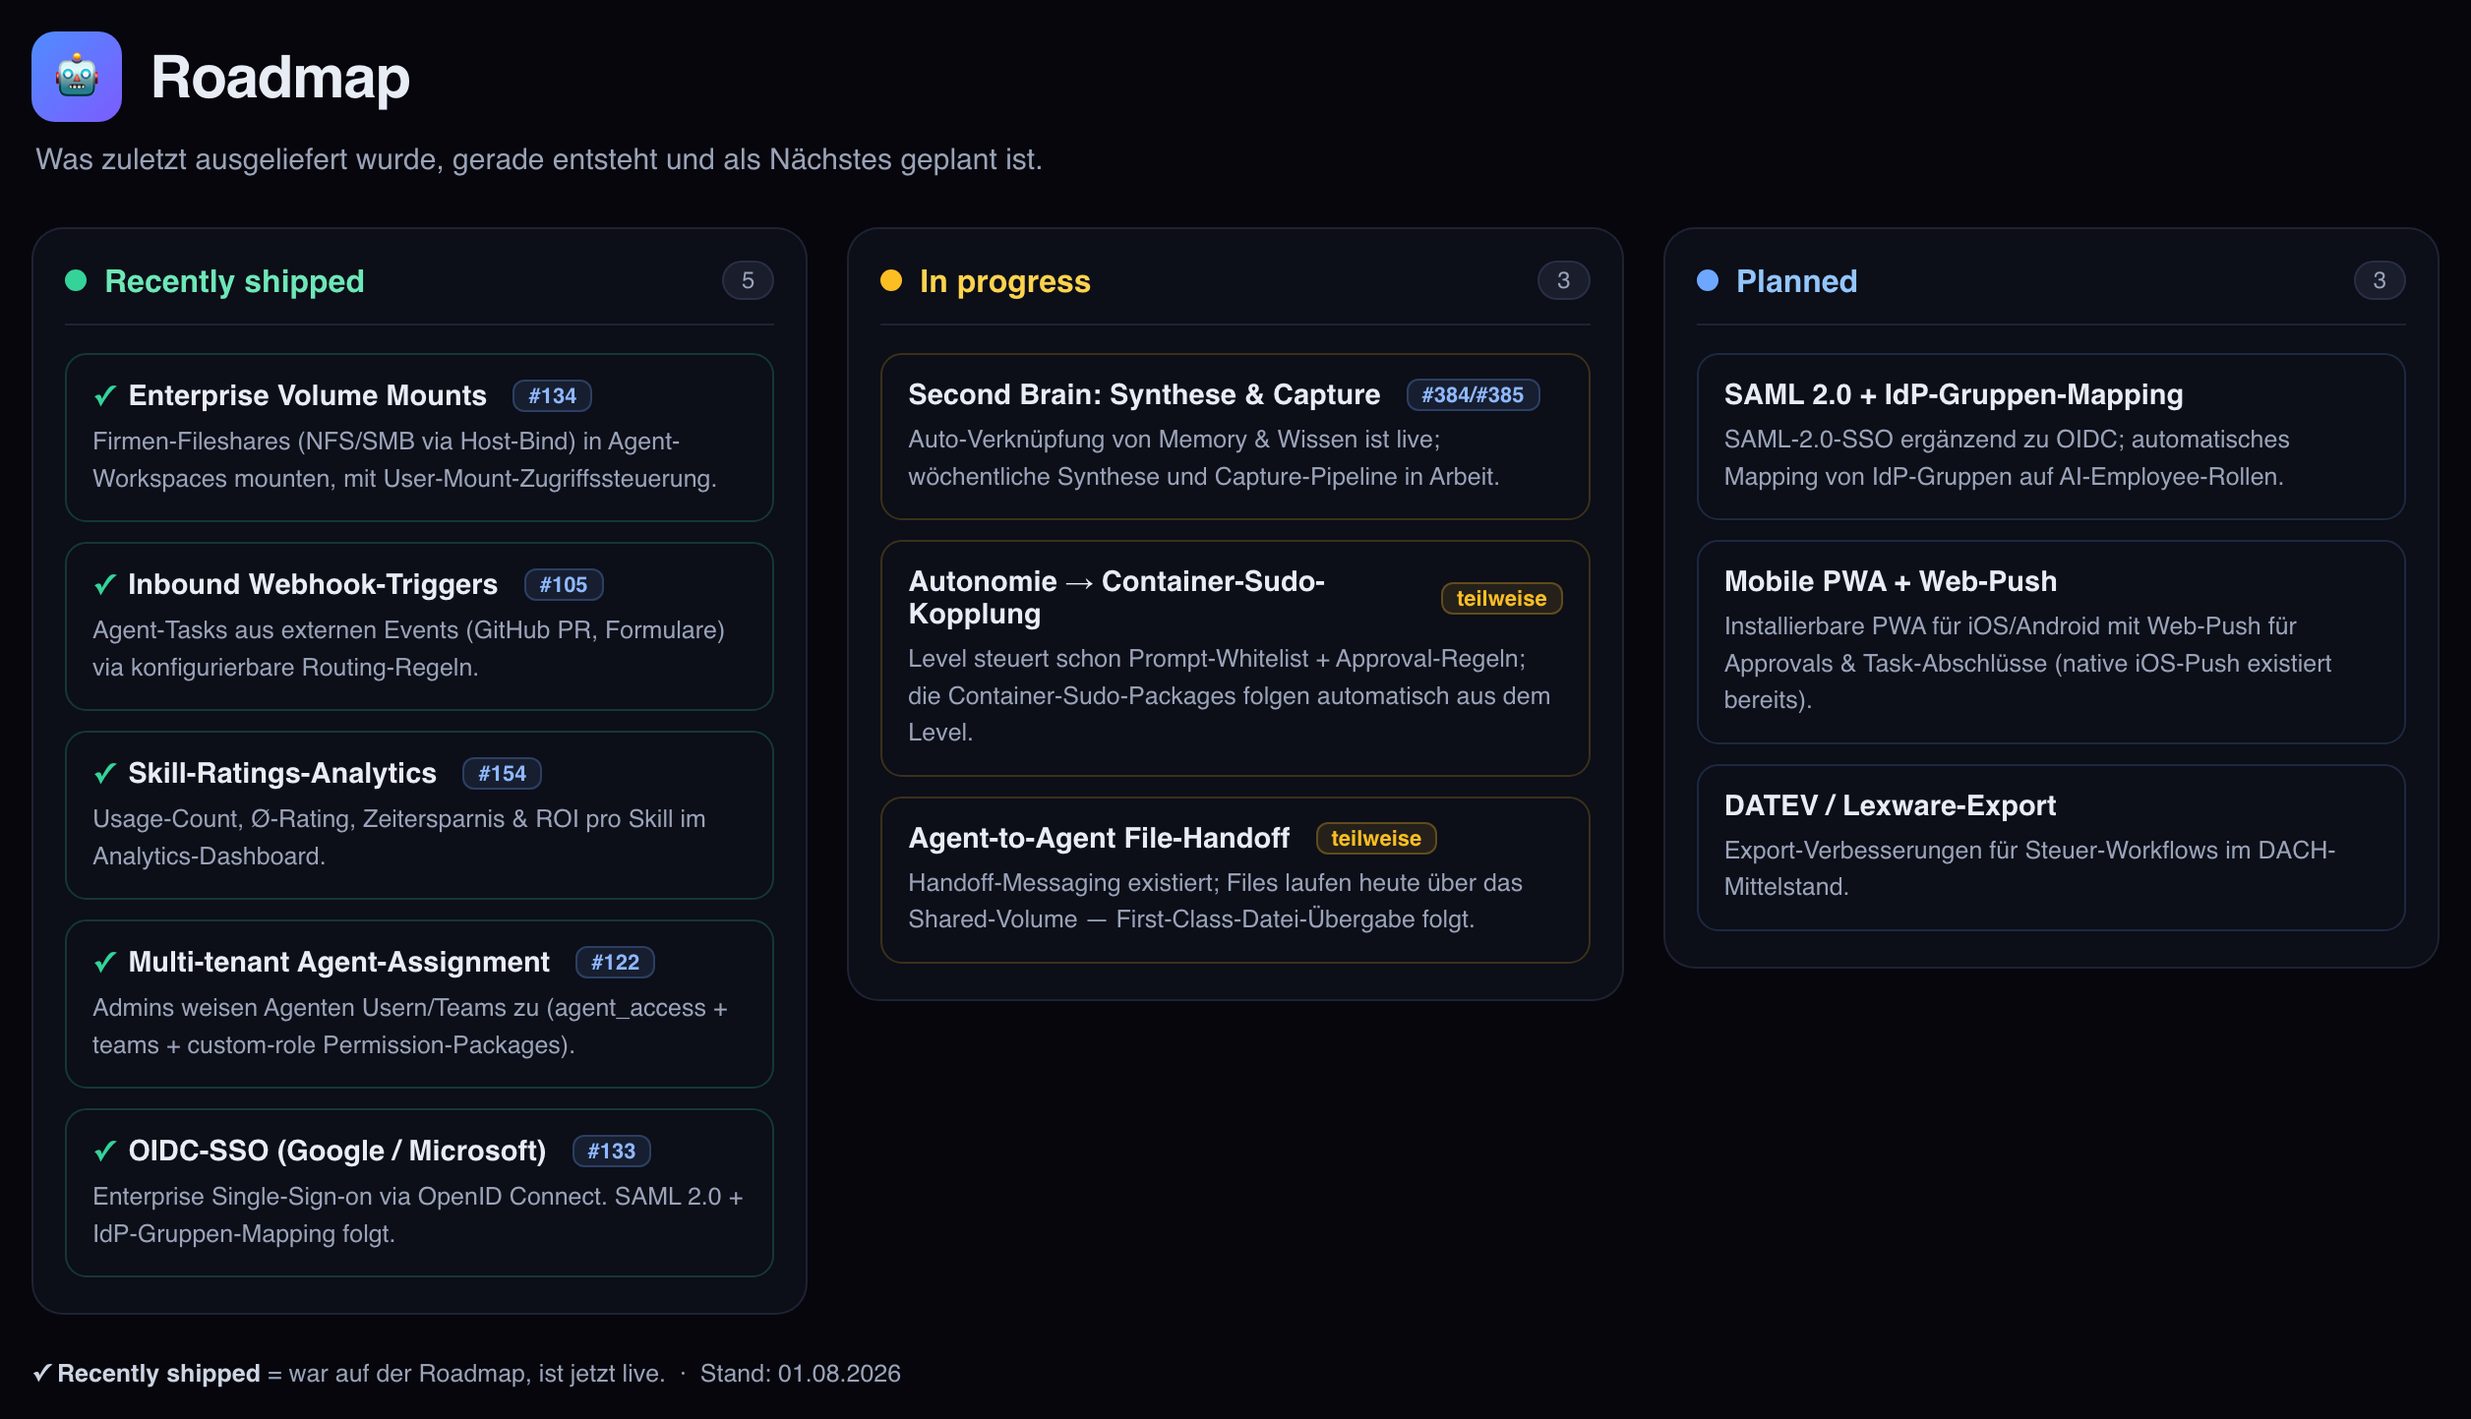
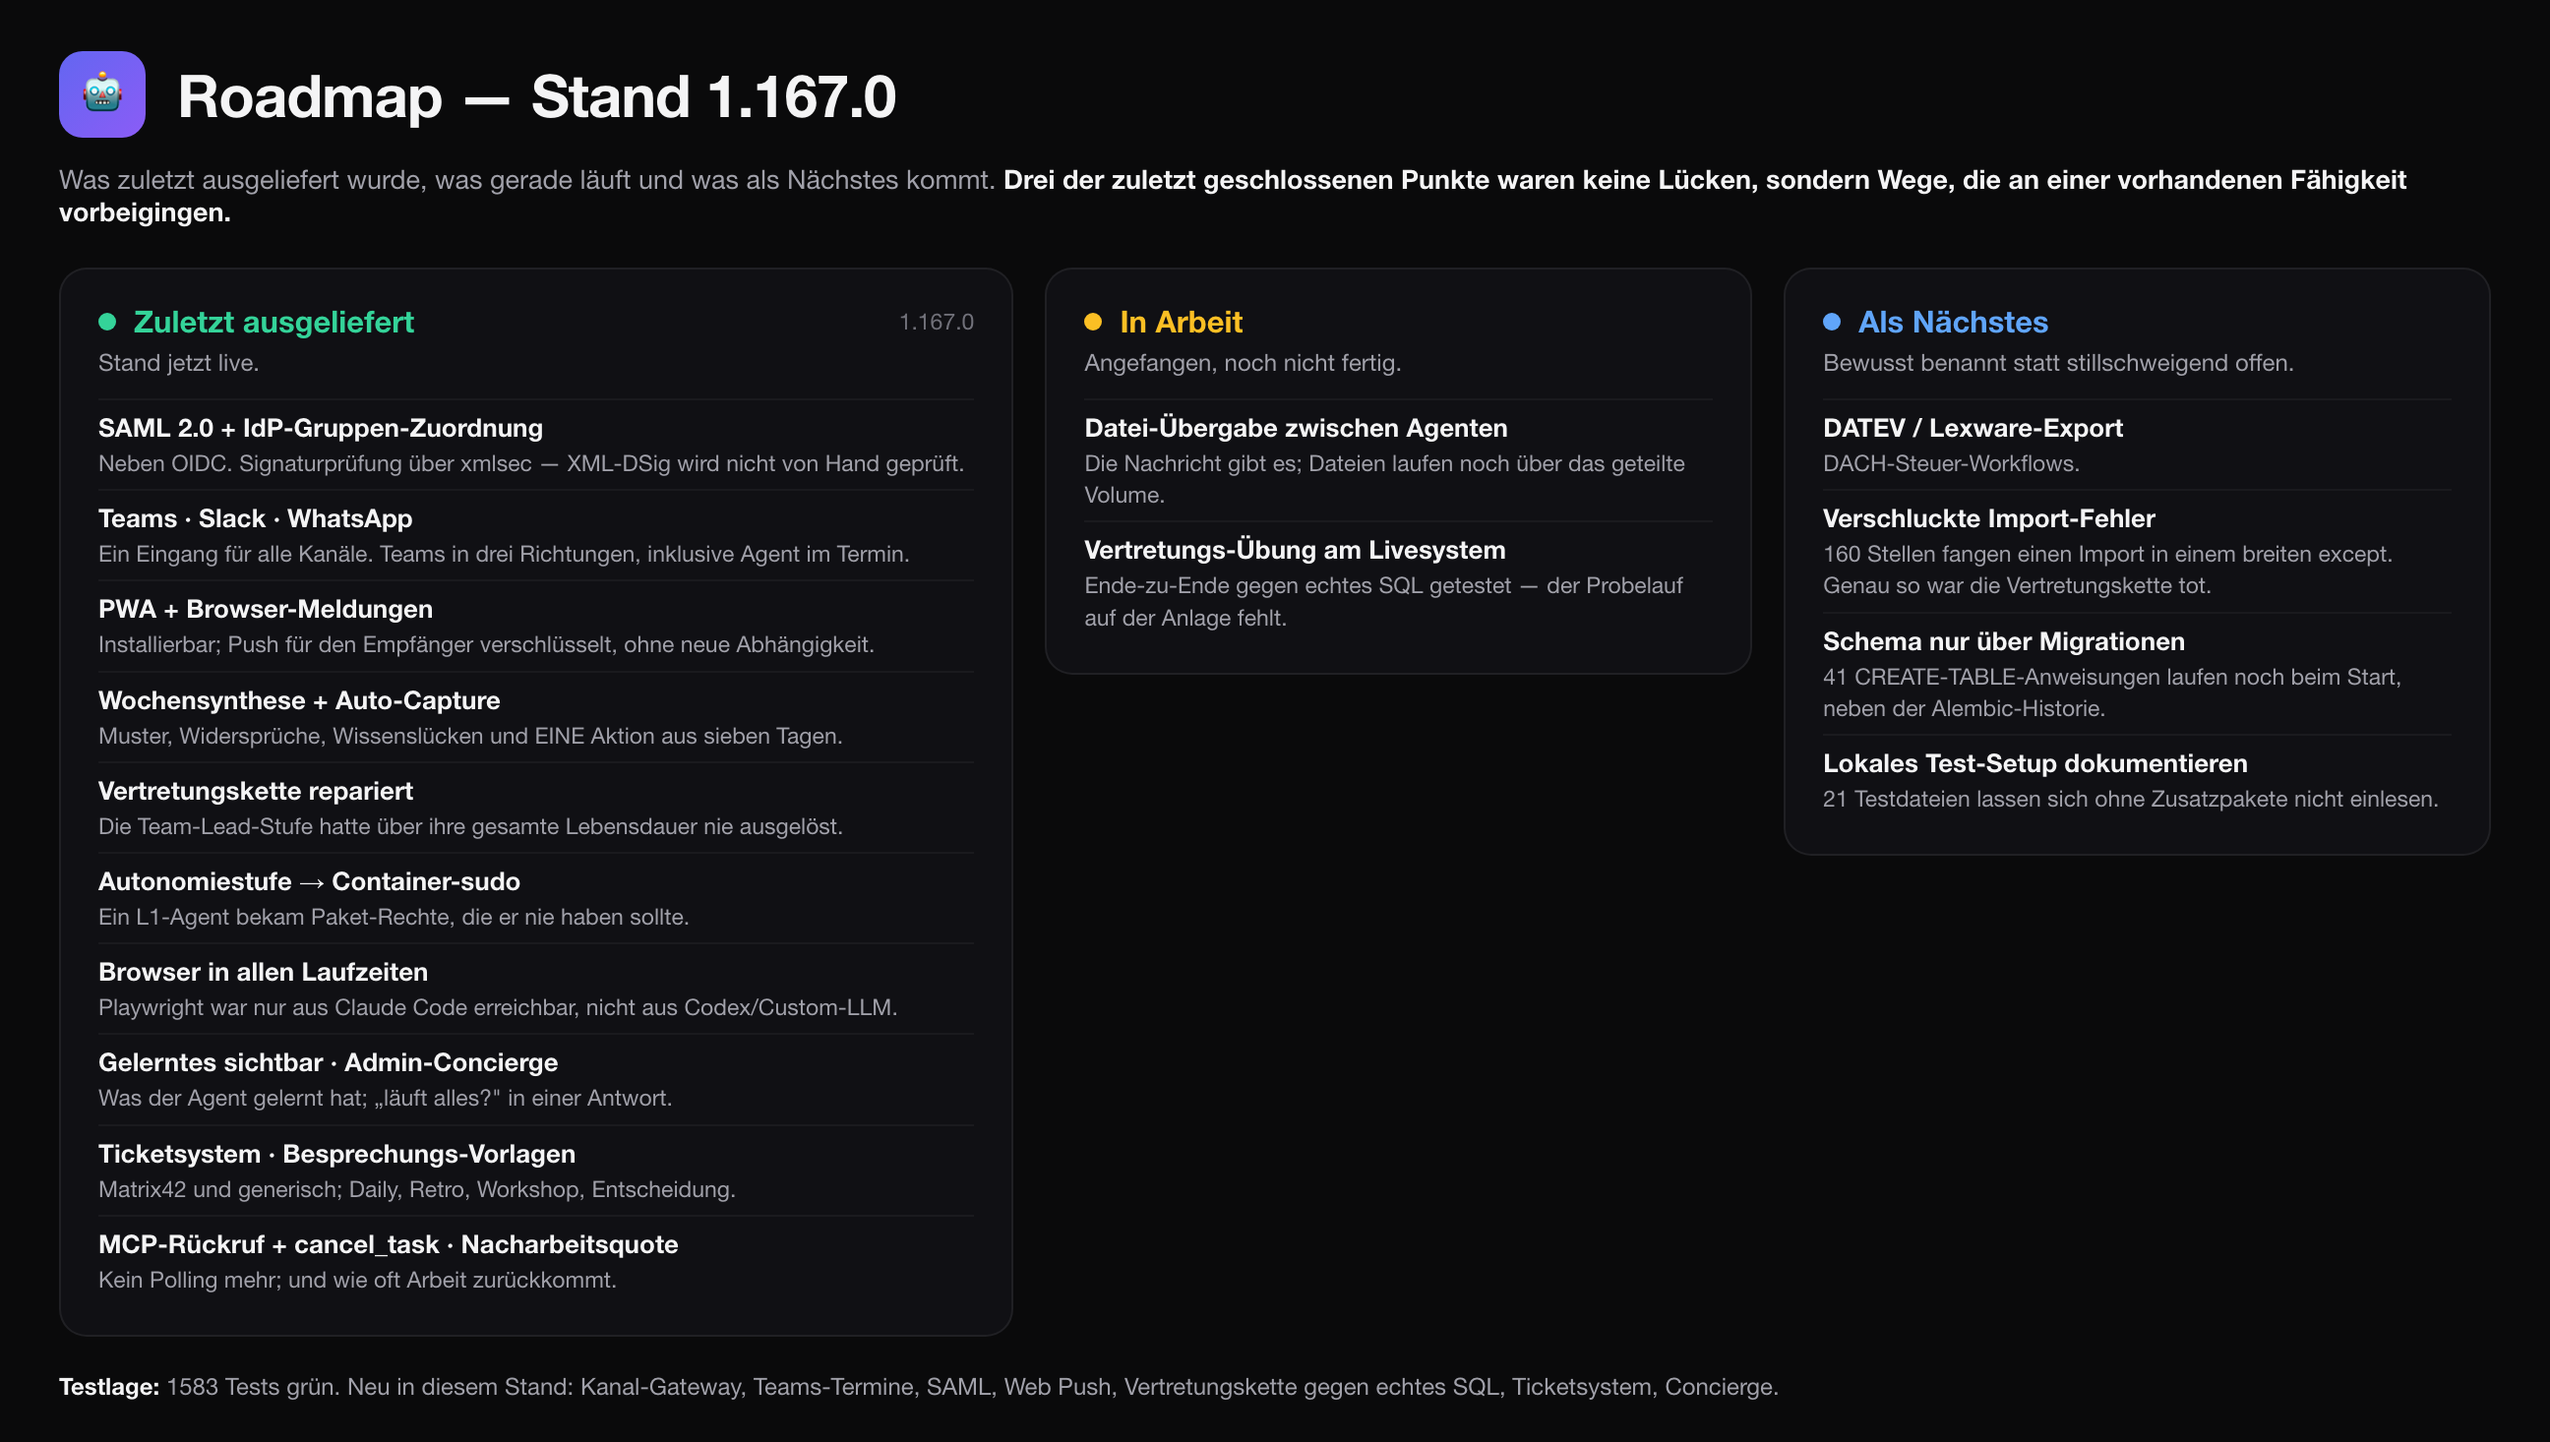
chore(release): v1.167.0 — Vision-Abschluss
Version, CHANGELOG, README und beide Roadmap-Bilder auf den Stand gebracht.

Der Versions-Badge im README stand auf 1.127.0 und war damit 39 Versionen alt.

Der Roadmap-Abschnitt ist neu geschrieben: was ausgeliefert ist, was laeuft, was
kommt. Die offenen Punkte sind bewusst benannt statt stillschweigend wegzufallen —
darunter die 160 Stellen mit verschlucktem Import-Fehler (genau so war die
Vertretungskette ueber ihre gesamte Lebensdauer tot) und die 41 Schema-Anweisungen,
die noch am Migrationsweg vorbeilaufen.

Beide Bilder neu erzeugt (docs/assets/roadmap.png, vision-roadmap.png) — es gibt kein
Generator-Skript, sie sind im Stil der bisherigen von Hand gebaut und headless
gerendert. Die Vision-Roadmap zeigt jetzt je Punkt, ob er live oder offen ist, statt
nur Issue-Nummern.

VERSION und das Dockerfile-Label des Agenten sind gleichgezogen. AGENT_VERSION liest
die VERSION-Datei beim Start — nach dem Deploy also Orchestrator neu starten, sonst
haengt das Update-Banner. Das Agenten-Image braucht ohnehin einen Rebuild: libxmlsec1
fuer SAML und playwright fuer die Browser-Paritaet sind neu.

diff --git a/README.md b/README.md
@@ -5,7 +5,7 @@
 **The self-hosted multi-agent AI platform for teams who need compliance, governance, and true isolation.**
 
 [![License: Source Available](https://img.shields.io/badge/license-Source%20Available-orange.svg)](LICENSE.md)
-[![Version](https://img.shields.io/badge/version-1.127.0-green.svg)](VERSION)
+[![Version](https://img.shields.io/badge/version-1.167.0-green.svg)](VERSION)
 [![Docker](https://img.shields.io/badge/docker-ready-2496ED.svg)](docker-compose.community.yml)
 [![DSGVO](https://img.shields.io/badge/DSGVO-ready-yellow.svg)](#governance--compliance)
 [![Made in DACH](https://img.shields.io/badge/made%20in-DACH-red.svg)](#)
@@ -300,25 +300,32 @@ What we shipped recently, what's in progress, and what's planned next:
 <summary>Roadmap as text</summary>
 
 **Recently shipped** (was on the roadmap, now live)
-- **Visual workflow builder + engine** ([#392](https://github.com/greeves89/AI-Employee/issues/392) / [#394](https://github.com/greeves89/AI-Employee/issues/394)) — declarative multi-step agent workflows (task / condition / wait) that run on a safe state machine, edited in an n8n-style drag-and-drop canvas, with automatic cron triggers.
-- **DLP egress filter** ([#388](https://github.com/greeves89/AI-Employee/issues/388)) — outbound agent text scanned for PII/secrets before send; allow/log/mask/block per data class, audit without cleartext, admin UI.
-- **Decision-Trace / time-travel** ([#387](https://github.com/greeves89/AI-Employee/issues/387)) — replayable task timeline (thought → tool-call → result) with per-step duration, governance & cost strip, and JSON/PDF export.
-- **Second Brain — semantic auto-linking** ([#157](https://github.com/greeves89/AI-Employee/issues/157)) — agent memories and knowledge entries are now automatically cross-linked by embedding similarity, with a memory↔knowledge bridge and graph edge-type differentiation.
-- **Enterprise Volume Mounts** ([#134](https://github.com/greeves89/AI-Employee/issues/134)) — mount company file shares (NFS/SMB via host bind) into agent workspaces, with per-user mount access control.
-- **Inbound webhook triggers** ([#105](https://github.com/greeves89/AI-Employee/issues/105)) — trigger agent tasks from external events (GitHub PR, forms) via configurable routing rules.
-- **Skill ratings analytics** ([#154](https://github.com/greeves89/AI-Employee/issues/154)) — usage count, average rating, time-saved and ROI per skill in the analytics dashboard.
-- **Multi-tenant agent assignment** ([#122](https://github.com/greeves89/AI-Employee/issues/122)) — assign agents to specific users/teams via `agent_access` + teams + custom-role permission packages.
-- **OIDC SSO (Google / Microsoft)** ([#133](https://github.com/greeves89/AI-Employee/issues/133)) — enterprise single sign-on via OpenID Connect.
+- **SAML 2.0 + IdP group mapping** — SAML SSO alongside OIDC, with automatic mapping of identity-provider groups to AI-Employee roles. Signature verification runs through `python3-saml`/`xmlsec` — never hand-rolled.
+- **Mobile PWA + Web Push** — installable PWA for iOS/Android/desktop with encrypted web push for approvals and task completions, on the same fan-out point as the existing native iOS push.
+- **Multi-channel gateway** — Microsoft Teams, Slack and WhatsApp next to Telegram. Teams works in three directions: a human messages the agent, an agent messages another agent, and an agent joins a meeting as scribe or participant. No Azure Bot registration needed — the existing per-user Graph integration already covers it.
+- **Second Brain: Weekly Synthesis & Capture** ([#384](https://github.com/greeves89/AI-Employee/issues/384) / [#385](https://github.com/greeves89/AI-Employee/issues/385)) — a weekly pass over the last seven days surfaces patterns, contradictions, knowledge gaps and ONE action; links and long messages are captured into the vault automatically.
+- **Autonomy level → container sudo** — the autonomy matrix now derives the container's sudo package set. An L1 "read-only" agent no longer receives a package-install grant it was never meant to have.
+- **Self-improvement dashboard** — what the platform learned: skills that emerged on their own, drafts awaiting review, revisions kept vs. reverted.
+- **Admin concierge widget** — "is everything fine?" in one answer, assembled from existing queries, deliberately without an LLM behind it.
+- **Ticket system connector** — Matrix42 plus a generic JSON/REST profile. Read, create and comment; closing a ticket stays with a human.
+- **Meeting templates** — Daily, Retrospective, Workshop, Decision.
+- **Browser automation across all runtimes** — Playwright was only reachable from Claude Code; Codex and Custom-LLM agents now have the same capability.
+- **MCP bridge: completion callbacks + `cancel_task`** — no more polling `get_task_status` in a loop, and a task that is no longer needed can be stopped.
+- **Rework rate** — how often a task had to be touched twice, derived from data already collected. Feeds the "is this agent getting better?" verdict.
+- **Visual workflow builder + engine** ([#392](https://github.com/greeves89/AI-Employee/issues/392) / [#394](https://github.com/greeves89/AI-Employee/issues/394)) — declarative multi-step agent workflows on a safe state machine, edited in an n8n-style canvas.
+- **DLP egress filter** ([#388](https://github.com/greeves89/AI-Employee/issues/388)) — outbound agent text scanned for PII/secrets before send.
+- **Decision-Trace / time-travel** ([#387](https://github.com/greeves89/AI-Employee/issues/387)) — replayable task timeline with per-step duration, governance & cost strip.
+- **Second Brain — semantic auto-linking** ([#157](https://github.com/greeves89/AI-Employee/issues/157)) — memories and knowledge cross-linked by embedding similarity.
+- **Enterprise Volume Mounts** ([#134](https://github.com/greeves89/AI-Employee/issues/134)), **inbound webhook triggers** ([#105](https://github.com/greeves89/AI-Employee/issues/105)), **skill ratings analytics** ([#154](https://github.com/greeves89/AI-Employee/issues/154)), **multi-tenant agent assignment** ([#122](https://github.com/greeves89/AI-Employee/issues/122)), **OIDC SSO** ([#133](https://github.com/greeves89/AI-Employee/issues/133)).
 
 **In progress**
-- **Second Brain: Weekly Synthesis & Capture** ([#384](https://github.com/greeves89/AI-Employee/issues/384) / [#385](https://github.com/greeves89/AI-Employee/issues/385)) — semantic auto-linking of memory & knowledge is live; weekly synthesis and the capture pipeline are next.
-- **Autonomy Level → container-sudo coupling** — an autonomy level already drives the prompt whitelist and approval rules; next it will also derive the container sudo package automatically.
-- **Agent-to-agent file handoff** — handoff messaging exists; files currently pass through the shared volume, first-class file handoff is in progress.
+- **Agent-to-agent file handoff** — handoff messaging exists; files currently pass through the shared volume, first-class file handoff is next.
+- **Deputy chain, verified live** — the team-lead fallback was repaired in 1.167.0 and is covered end-to-end against real SQL; a live drill on the production box is still outstanding.
 
 **Planned**
-- **SAML 2.0 + IdP group mapping** — SAML 2.0 SSO alongside the existing OIDC, with automatic mapping of identity-provider groups to AI-Employee roles.
-- **Mobile PWA + Web Push** — installable PWA for iOS/Android with web push for approvals and task completions (native iOS push already exists).
 - **DATEV / Lexware export** — export improvements for DACH tax workflows.
+- **Fewer swallowed import errors** — 160 places wrap an import in a broad `except Exception`, where an `ImportError` silently turns a function into a no-op. One of them had disabled the deputy chain for its entire lifetime.
+- **Schema changes through migrations only** — 41 `CREATE TABLE IF NOT EXISTS` statements still run at startup alongside the Alembic history.
 
 </details>
 

diff --git a/CHANGELOG.md b/CHANGELOG.md
@@ -5,6 +5,66 @@ Format: [Keep a Changelog](https://keepachangelog.com/en/1.0.0/) · Versioning: 
 
 ---
 
+## [1.167.0] — 2026-08-08
+
+Der Vision-Abschluss: die offenen Punkte aus allen vier Roadmap-Säulen. Drei davon
+waren keine Lücken, sondern **Wege, die an einer vorhandenen Fähigkeit vorbeigingen** —
+sie fielen erst beim Nachsehen auf.
+
+### Added
+- **SAML 2.0 SSO mit IdP-Gruppen-Zuordnung.** Die Signaturprüfung bewusst über
+  `python3-saml`/`xmlsec` statt selbst geschrieben — XML-DSig von Hand zu prüfen ist
+  der klassische Ort für Signature-Wrapping, und ein Kanonisierungsfehler dort ist ein
+  Authentifizierungs-Bypass. Höchste zutreffende Rolle gewinnt; ohne Treffer bleibt die
+  Rolle unverändert, und der letzte Administrator wird nie herabgestuft.
+- **Browser-Meldungen (Web Push) und installierbare App (PWA).** Ohne neue
+  Abhängigkeit umgesetzt (RFC 8292 + RFC 8291/8188 mit `cryptography`). Der Inhalt ist
+  für den Empfänger verschlüsselt — der Push-Dienst leitet nur weiter.
+- **Multi-Channel: Teams, Slack, WhatsApp.** Teams in drei Richtungen — Mensch schreibt
+  den Agenten an, Agent schreibt Agent, Agent als Mitschreiber oder Beisitzer in
+  Terminen. Ohne Bot-Registrierung: die Graph-Anbindung mit Nutzer-OAuth darf das
+  bereits.
+- **Wochensynthese (#384) und Auto-Capture (#385).** Muster, Widersprüche,
+  Wissenslücken und EINE Aktion aus den letzten sieben Tagen; Links und lange
+  Textblöcke landen im Second Brain statt im Chatverlauf.
+- **Self-Improvement sichtbar (#13).** Die Mechanik lief längst — es gab nur keine
+  Fläche, auf der steht, was der Agent gelernt hat.
+- **Admin-Concierge (#11).** „Läuft alles?" in einer Antwort, bewusst ohne
+  Sprachmodell: ein Concierge, der eine Zahl halluziniert, ist schlimmer als keiner.
+- **Ticketsystem-Anschluss** mit Matrix42 als erstem Profil. Ohne Schließen und
+  Löschen — den Abschluss macht ein Mensch.
+- **Ablauf-Vorlagen für Besprechungen (#14):** Daily, Retrospektive, Workshop,
+  Entscheidung.
+- **Nacharbeitsquote** in der Entwicklungs-Karte und im Analytics-Tab.
+- **MCP-Brücke:** Rückruf beim Fertigwerden statt Polling, plus `cancel_task`.
+
+### Fixed
+- **Die Team-Lead-Stufe der Vertretungskette hat nie ausgelöst.** `team_lead_for`
+  verband sich auf eine Tabelle `team_members`, die es in diesem Projekt nie gab. Der
+  ImportError lief jedes Mal ins umschließende `except`, die Funktion gab stumm `""`
+  zurück. Folge: ohne eingetragenen Vertreter übernahm **niemand**, und unbeantwortete
+  Rückfragen gingen immer an die Administration statt an den Team-Lead. Aufgefallen nur,
+  weil der neue Beleg gegen echtes SQL läuft statt gegen Attrappen.
+- **Die Autonomiestufe bestimmt jetzt auch den sudo-Zugriff im Container.** Ein
+  L1-Agent („nur lesen") bekam trotzdem das Standardpaket — der Prompt sagte nein, die
+  Kiste sagte ja.
+- **Browser-Steuerung gab es nur für Claude Code.** `claude mcp add` schreibt in die
+  Konfiguration der Claude-CLI, die Codex und Custom-LLM nicht lesen. Von drei
+  Harnessen konnte nur einer im Browser arbeiten.
+- **Kanal-Zugangsdaten** (Slack-Token, WhatsApp-Geheimnis) werden verschlüsselt
+  abgelegt statt im Klartext.
+
+### Changed
+- Der Wissens-Schreibweg (anlegen, einbetten, verknüpfen) existierte **viermal** fast
+  gleich — der Kommentar im Code sagte selbst „mirrors api/knowledge.py". Jetzt in
+  `core/knowledge_write`, von allen Aufrufern genutzt.
+- Der Kanal-Eingang (Historie, Auto-Capture, Einreihen) lag im Telegram-Bot und liegt
+  jetzt in `core/channel_gateway` — Telegram, Teams, Slack und WhatsApp teilen ihn.
+- `push_to_user` lag in `apns_service` und erreichte nur iPhones; der Verteilpunkt
+  liegt jetzt in `core/push` und fächert auf alle Geräte auf.
+
+---
+
 ## [1.166.10] — 2026-08-08
 
 ### Fixed
